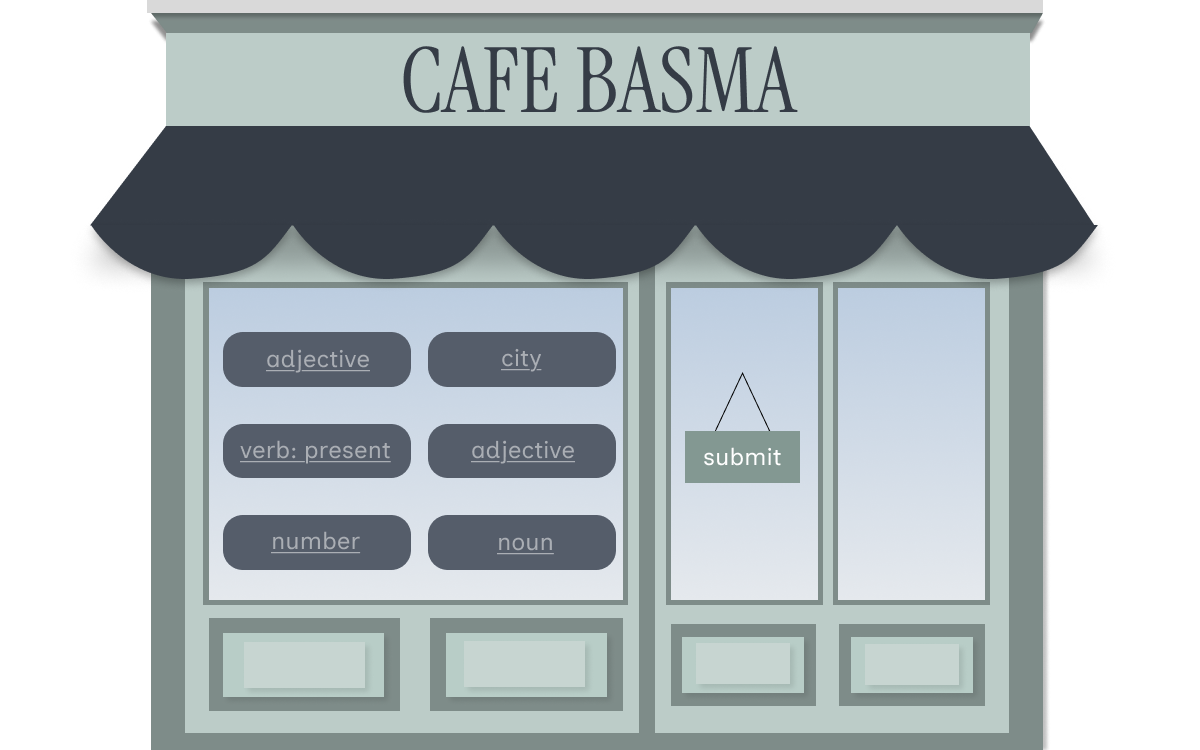
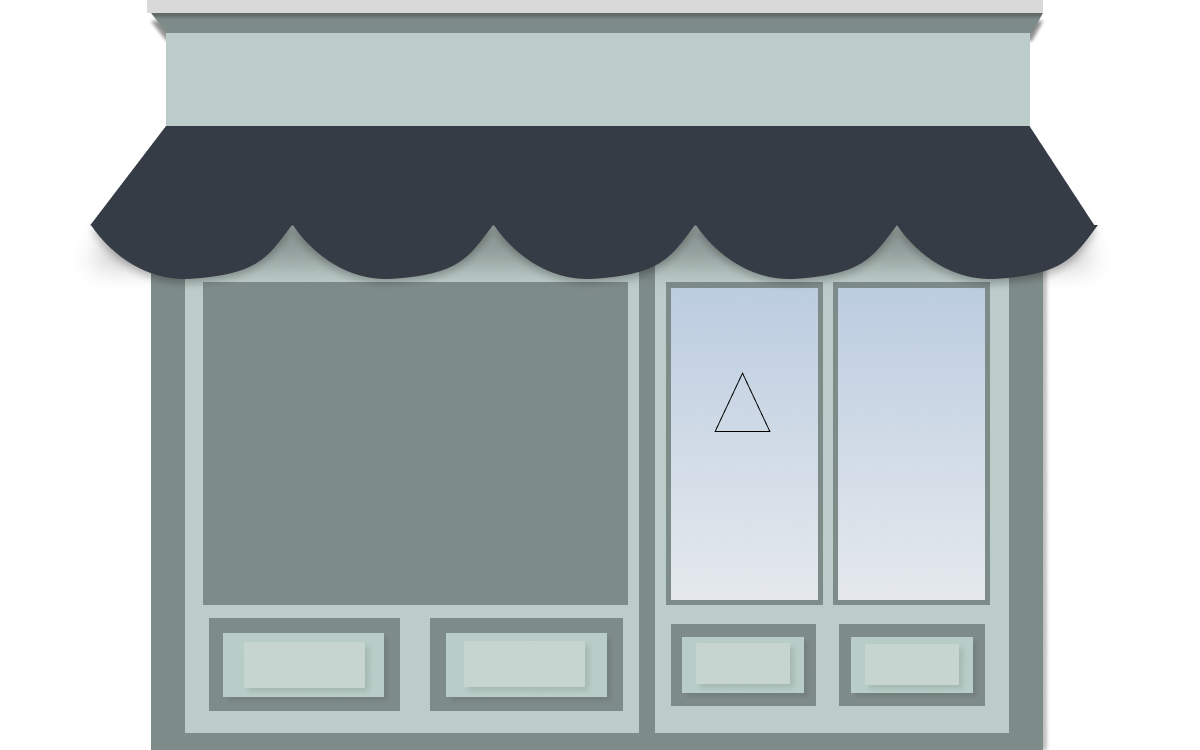
css html

Changed region(s): [[0.1542, 0.368, 0.5242, 0.7973], [0.3392, 0.0613, 0.6783, 0.1533], [0.555, 0.552, 0.6783, 0.644]]

diff --git a/madlibs/v1/styles.css b/madlibs/v1/styles.css
@@ -1,18 +1,53 @@
-html {
+/* html {
     background-image: url("images/bricks.png"); 
     background-size: 1500px;
     background-repeat: no-repeat;
+} */
+
+html {
+    overflow: hidden;
+    padding-top: 60px;
+}
+
+h1 {
+    position: fixed;
+    top: -25px;
+    left: 50%;
+    transform: translateX(-50%); 
+    z-index: 2; 
+    color: #353C46;
+    font-family: "Instrument Serif";
+    font-size: 90px;
+    text-align: center;
 }
 
 body {
-    background-image: url("images/cafe.png");
-    /* background-image: 1200; */
+    /* background-image: url("images/cafe.png");
     background-size: 1200px;
     background-repeat: no-repeat;
     height: 750px;
     background-position: center;
-    margin-top: -20px;
+    margin-top: -20px; */
+    background-image: url("images/bricks.png"); 
+    background-size: 1500px 760px;
+    background-repeat: no-repeat;
 }
+
+#cafeimg {
+    position: absolute;
+    padding-top: 5px;
+    top: 0; 
+    left: 50%;
+    transform: translateX(-50%); 
+    z-index: 1; 
+}
+
+/* h1 {
+    color: #353C46;
+    font-family: "Instrument Serif";
+    font-size: 90px;
+    position: absolute;
+} */
 
 .cafe {
     margin-top: 5px;
@@ -21,28 +56,52 @@ body {
 
 input {
     background-color: #555D6A;
-    color: #AAAEB4;
+    color: #BCCCC8;
     border: none;
     border-radius: 20px;
     font-family: "Inclusive Sans";
     font-size: 24px;
-    text-decoration-line: underline;
     width: 188px;
     height: 55px;
     text-align: center;
+}
+
+
+input::placeholder {
+    color: #AAAEB4;
+    font-size: 24px;
+    text-decoration-line: underline;
+    text-align: center;
+}
+
+#submit {
+    background: #839892;
+    color: white;
+    width: 115px;
+    height: 50px;
+    border-radius: 0px;
 }
 
 form {
     display: grid;
     grid-template-columns: repeat(2, 1fr); 
     /* grid-gap: 10px;  */
-    margin-top: 251px;
-    margin-left: 335px;
+    position: fixed;
+    margin-top: 116px;
+    margin-left: 333px;
     background: linear-gradient(180deg, #BCCDE0 0%, #E5E9ED 100%);
     width: 395px;
     height: 312px;
     align-items: center;
     padding-left: 10px;
+    z-index: 2;
+}
+
+#submitbutton {
+    background:none;
+    position: relative;
+    top: 129px;
+    left: 465px;
 }
 
 url {

diff --git a/madlibs/v1/index.html b/madlibs/v1/index.html
@@ -18,10 +18,11 @@
 </head>
 
 <body>
-    <header>
-        <h1>Cafe Basma</h1>
-    </header> 
 
+    <header>
+        <h1>CAFE BASMA</h1>
+    </header> 
+    
     <form> 
         <input type="text" id="ad1" name="ad1" placeholder="Adjective">
         <input type="text" id="city" name="city" placeholder="City">
@@ -29,8 +30,17 @@
         <input type="text" id="ad2" name="ad2" placeholder="Adjective">
         <input type="text" id="num" name="num" placeholder="Number">
         <input type="text" id="noun" name="noun" placeholder="Noun">
+    </form>
+
+    <form id="submitbutton">
         <input type="submit" id="submit" name="submit">
     </form>
+
+    <div>
+        <img src="images/cafe.png" id="cafeimg" alt="cafeimage">
+    </div>
+
+    
 </body>
 
 </html>
